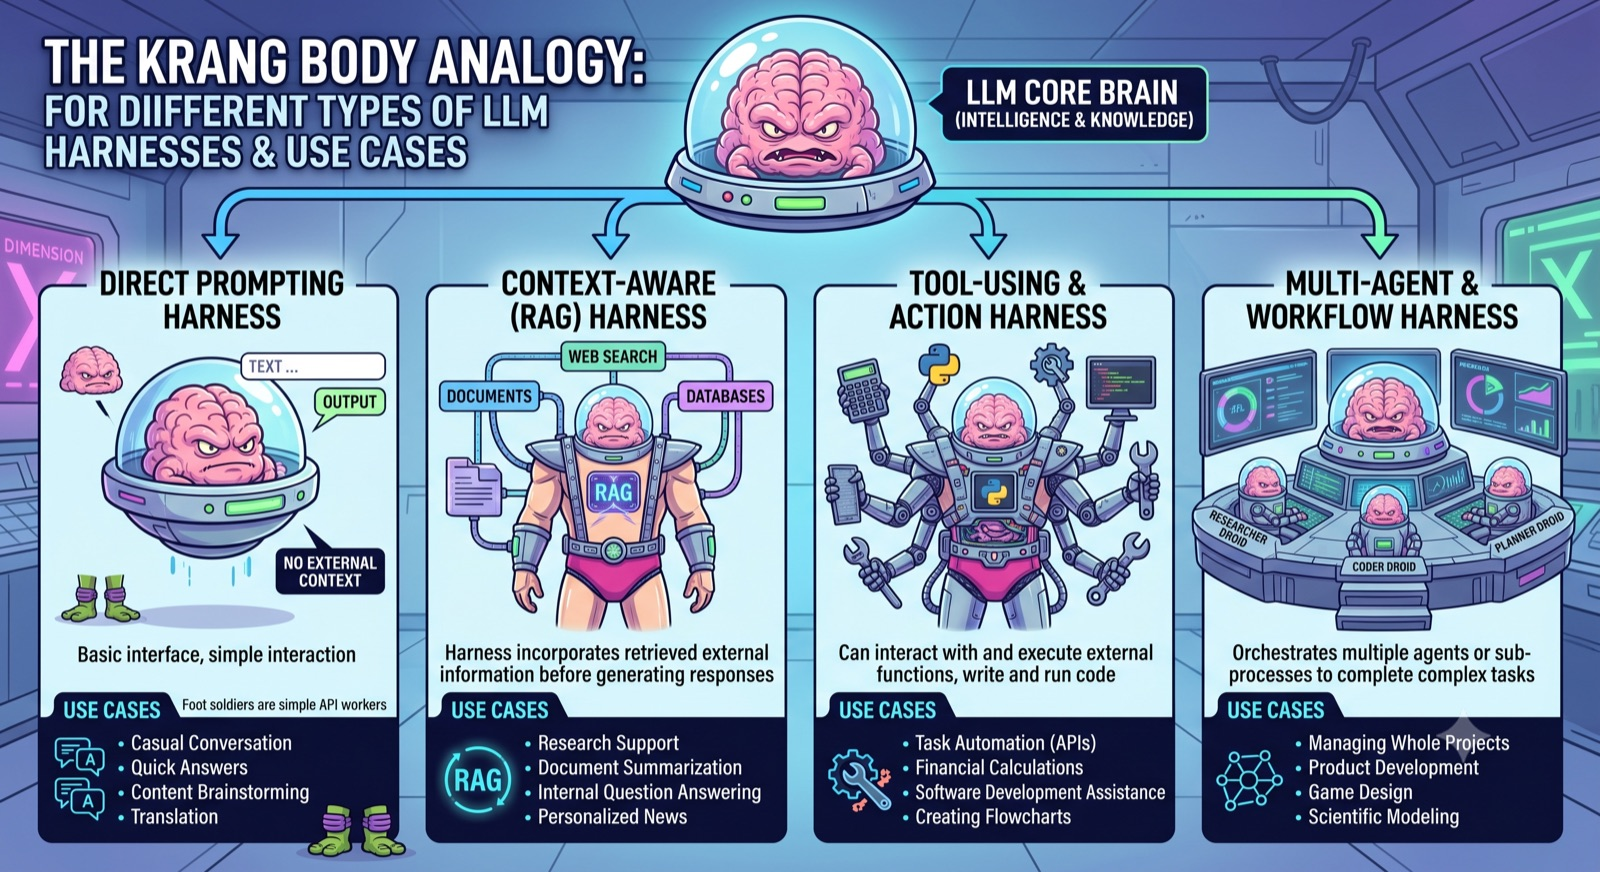
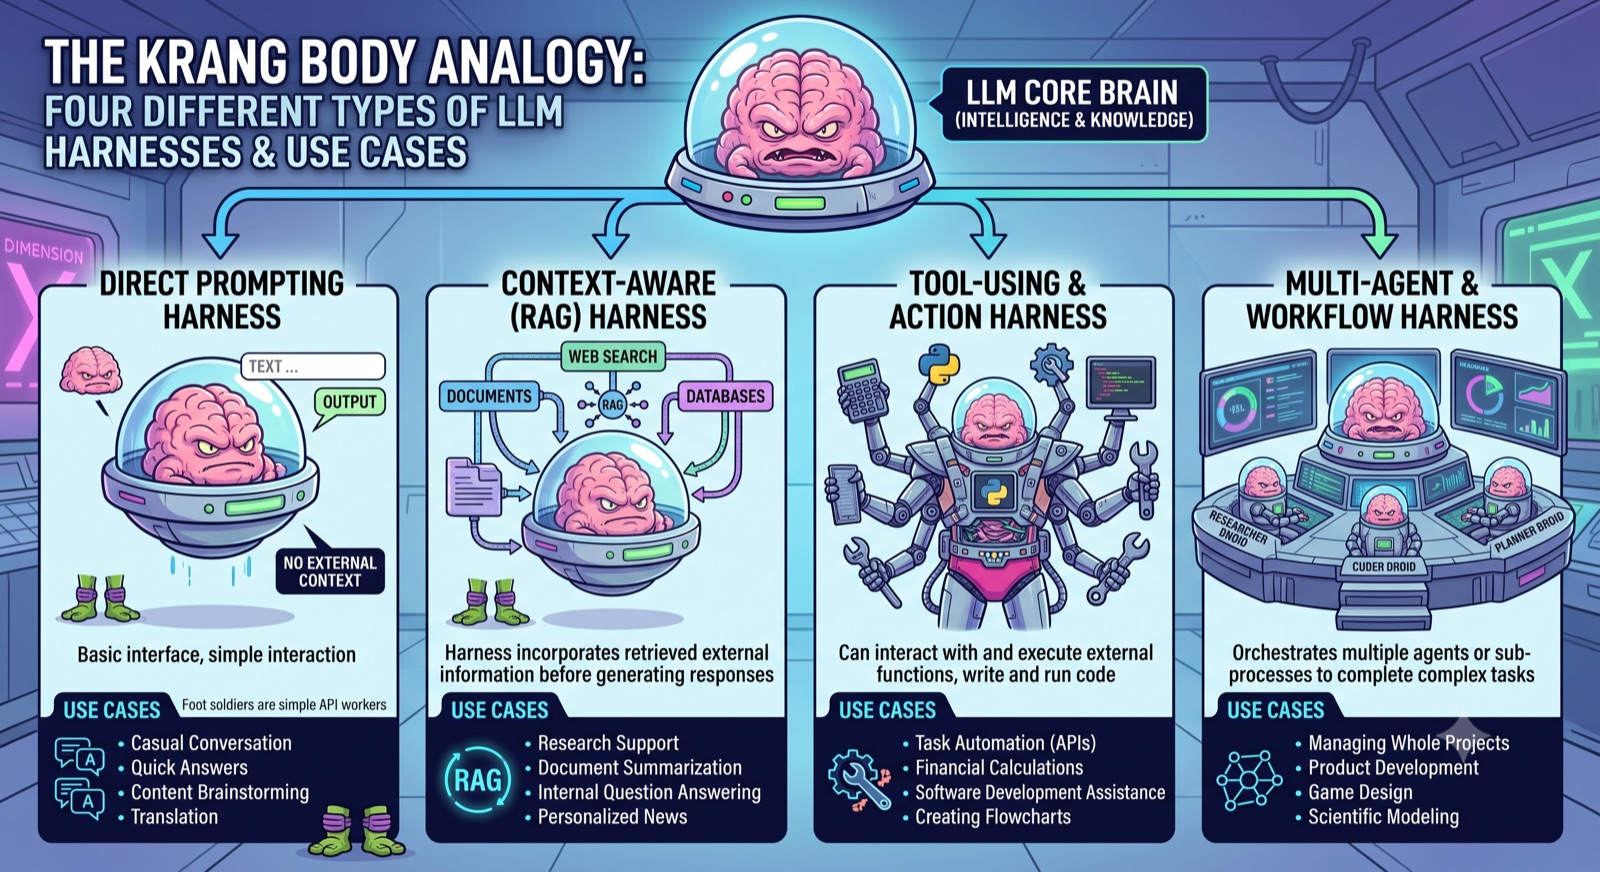
Built site for gh-pages

diff --git a/posts/krang-and-the-waffle/index.html b/posts/krang-and-the-waffle/index.html
@@ -423,8 +423,8 @@ ul.task-list li input[type="checkbox"] {
 <p>Google’s Gemini Pro, given the Krang analogy, produced the infographic below - extending the blob/body distinction of this post into a four-tier taxonomy of harnesses: bare brain, RAG exoskeleton, tool-using body, and a whole mission control of specialised Krang droids.</p>
 <div class="quarto-figure quarto-figure-center">
 <figure class="figure">
-<p><img src="gemini-krang-harnesses.jpg" class="img-fluid figure-img" alt="Cartoon infographic titled 'The Krang Body Analogy: for different types of LLM harnesses and use cases'. A Krang-like brain labelled 'LLM core brain' feeds four panels: a Direct Prompting Harness (brain alone in a hover-bubble, no external context), a Context-Aware RAG Harness (brain in an exoskeleton wired to documents, web search and databases), a Tool-Using and Action Harness (brain in a multi-armed robot holding tools, code and a calculator), and a Multi-Agent and Workflow Harness (several small Krang droids operating a mission-control console). Each panel lists example use cases."></p>
-<figcaption>The Krang Body Analogy, as illustrated by Gemini Pro. The typo in the title is Gemini’s own.</figcaption>
+<p><img src="gemini-krang-harnesses.jpg" class="img-fluid figure-img" alt="Cartoon infographic titled 'The Krang Body Analogy: four different types of LLM harnesses and use cases'. A Krang-like brain labelled 'LLM core brain' feeds four panels: a Direct Prompting Harness (brain alone in a hover-bubble, no external context), a Context-Aware RAG Harness (brain still in its hover-bubble, with documents, web search and databases feeding in through a RAG hub), a Tool-Using and Action Harness (brain in a multi-armed robot holding tools, code and a calculator), and a Multi-Agent and Workflow Harness (several small Krang droids operating a mission-control console). Each panel lists example use cases."></p>
+<figcaption>The Krang Body Analogy, as illustrated by Gemini Pro. The spelling on the droids’ nameplates is Gemini’s own.</figcaption>
 </figure>
 </div>
 

diff --git a/index.html b/index.html
@@ -136,7 +136,7 @@ window.Quarto = {
 </script>
 
 <link rel="alternate" type="application/rss+xml" title="Jon Minton's Blog" href="index.xml" data-external="1"><meta name="twitter:title" content="Jon Minton’s Blog">
-<meta name="twitter:description" content="About 287,785 random words/words on randomness">
+<meta name="twitter:description" content="About 287,792 random words/words on randomness">
 <meta name="twitter:image" content="https://blog.jonminton.net/posts/ai-adoption-chart-rebuilt/ai_adoption_waffle_latest.png">
 <meta name="twitter:site" content="@jonminton">
 <meta name="twitter:image-height" content="1600">
@@ -388,7 +388,7 @@ window.Quarto = {
   <div class="quarto-title-banner page-columns page-full">
     <div class="quarto-title column-page-left">
       <h1 class="title">Jon Minton’s Blog</h1>
-            <p class="subtitle lead">About 287,785 random words/words on randomness</p>
+            <p class="subtitle lead">About 287,792 random words/words on randomness</p>
                       </div>
   </div>
     
@@ -503,7 +503,7 @@ Claude Fable 5 (Anthropic)
 </a>
 </div>
 </div>
[2 lines of base64/hex data omitted]
 <div class="thumbnail"><a href="./posts/krang-and-the-waffle/index.html" class="no-external">
 
 <img loading="lazy" src="./posts/krang-and-the-waffle/player-original-waffle.jpeg" class="thumbnail-image">
